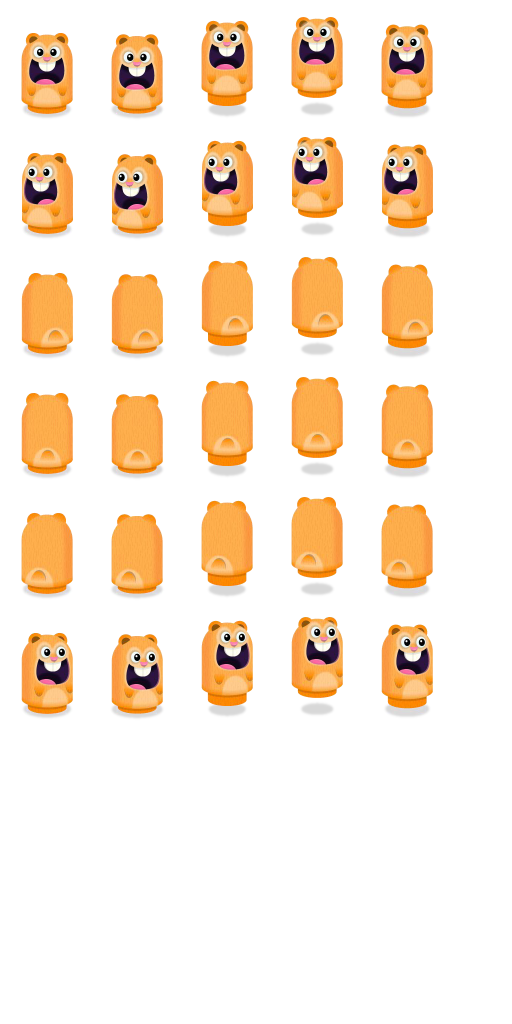
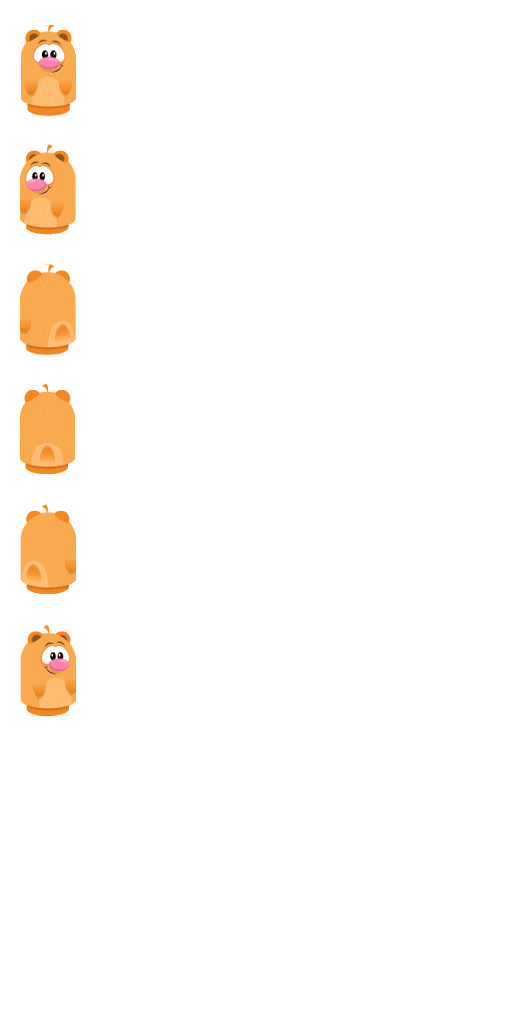
Added coins and new Hamster textures.

diff --git a/client/client1.js b/client/client1.js
@@ -1,4 +1,5 @@
 var BoxCritters = (function() {
+
 	/*
 	 * Event List
 	 * "click"  (x,y) - Dispatached when the user clicks
@@ -95,6 +96,7 @@ var BoxCritters = (function() {
 		}),
 		(Player.prototype.updateDirection = function(t) {
 			this.direction = t;
+			console.log(t);
 		}),
 		(Player.prototype.updateRotation = function(t) {
 			this.character.rotation = t;
@@ -102,9 +104,7 @@ var BoxCritters = (function() {
 		(Player.prototype.updateAnimation = function(t) {
 			void 0 !== t && (this.animation = t),
 				this.hasFrames &&
-					(this.isMoving
-						? this.character.gotoAndPlay("walk" + this.direction)
-						: this.character.gotoAndPlay("stand" + this.direction));
+					(this.character.gotoAndPlay("stand" + this.direction));
 		});
 	var dpr = window.devicePixelRatio;
 
@@ -158,6 +158,7 @@ var BoxCritters = (function() {
 		)
 			for (i = 0; i < e.playerlist.length; i++)
 				this.addPlayer(e.playerlist[i], this.useDirection);
+		this.coins = new Coins(this.stage);
 	}
 
 	function sortDepth(t, o) {
@@ -212,6 +213,21 @@ var BoxCritters = (function() {
 			void 0 !== r && this.socketHandler(r);
 		void 0 !== eventHandler && this.eventHandler(eventHandler);
 	}
+	function Coins(s, q)
+	{
+		var coins_container = new createjs.Container();
+		var coins_bg = new createjs.Bitmap("/media/ui/coins.png");
+		var coins_number = new createjs.Text(q || 100, "20px Luckiest Guy", "#fbd205");
+		coins_bg.x = 5;
+		coins_bg.y = 5;
+		coins_bg.scaleX = 0.35;
+		coins_bg.scaleY = 0.35;
+		coins_number.textAlign = "center";
+		coins_number.textBaseline = "middle";
+		coins_number.setTransform(55 + coins_bg.x, coins_bg.y + 22);
+		coins_container.addChild(coins_bg, coins_number);
+		s.addChild(coins_container);
+	}
 	(Room.prototype.sortDepth = function() {
 		this.game.children.sort(sortDepth);
 	}),
@@ -256,7 +272,7 @@ var BoxCritters = (function() {
 				r = new createjs.Text(t.m, "12px Arial", "#000000");
 			var log = document.getElementById("chatlogArea").value;
 			document.getElementById("chatlogArea").value =
-				t.n + " says: " + t.m + "\n" + log;
+				log + o.nickname.children[0].text + " says: " + t.m + "\n";
 			//e && e.balloon.showMessage(t)
 			(r.textAlign = "center"), (r.lineWidth = 100);
 			var a = r.getBounds(),
@@ -284,7 +300,7 @@ var BoxCritters = (function() {
 			var o = this.playerlist[t.i];
 			o.isMoving = !0;
 			var e = findDirection(t.r);
-			o.updateDirection(e), o.updateAnimation("walk");
+			o.updateDirection(e), o.updateAnimation("stand");
 			var r = calculateDistance(o.x, o.y, t.x, t.y) * o.speed;
 			(o.tween = createjs.Tween.get(o, {
 				override: !0

diff --git a/client/data.js b/client/data.js
@@ -1,40 +1,26 @@
 var hamster_data = {
     images: ["hamster.png"],
-    frames: [[2, 2, 90, 120], [92, 2, 90, 120], [182, 2, 90, 120], [272, 2, 90, 120], [362, 2, 90, 120],
-                 [2, 122, 90, 120], [92, 122, 90, 120], [182, 122, 90, 120], [272, 122, 90, 120], [362, 122, 90, 120],
-                 [2, 242, 90, 120], [92, 242, 90, 120], [182, 242, 90, 120], [272, 242, 90, 120], [362, 242, 90, 120],
-                 [2, 362, 90, 120], [92, 362, 90, 120], [182, 362, 90, 120], [272, 362, 90, 120], [362, 362, 90, 120],
-                 [2, 482, 90, 120], [92, 482, 90, 120], [182, 482, 90, 120], [272, 482, 90, 120], [362, 482, 90, 120],
-                 [2, 602, 90, 120], [92, 602, 90, 120], [182, 602, 90, 120], [272, 602, 90, 120], [362, 602, 90, 120]],
+    frames: [[2, 2, 90, 120], [2, 122, 90, 120], [2, 242, 90, 120], [2, 362, 90, 120], [2, 602, 90, 120], [92, 602, 90, 120], [182, 602, 90, 120]],
     animations: {
-        "stand4": [0],
-        "stand5": [5],
-        "stand6": [5],
-        "stand7": [10],
-        "stand0": [15],
-        "stand1": [20],
-        "stand2": [25],
-        "stand3": [25],
-        "walk4": [0, 4],
-        "walk5": [5, 9],
-        "walk6": [5, 9],
-        "walk7": [10, 14],
-        "walk0": [15, 19],
-        "walk1": [20, 24],
-        "walk2": [25, 29],
-        "walk3": [25, 29]
+        "stand4": [0], // South - Front
+        "stand5": [1],
+        "stand6": [1], // South West - Left - no ok
+        "stand7": [2],
+        "stand0": [3], // North - Back
+        "stand1": [1],
+        //"stand2": [4],
+        "stand3": [4] // South East - ok
     },
-
-    scaleX: .5, //90 big hamster | 5 normal critter
-    scaleY: .5, //90 big hamster | 5 normal critter
+    scaleX: .6, //90 big hamster | 5 normal critter
+    scaleY: .6, //90 big hamster | 5 normal critter
     regX: 45,
     regY: 100,
     framerate: 24,
-    balloonY: 60, //80 big hamster | 60 normal critter
+    balloonY: 80, //80 big hamster | 60 normal critter
     balloonX: 0
 };
 
 var settings = {
     character: hamster_data,
-    roomPath: './media/rooms/'
+    roomPath: 'http://localhost:3000/media/rooms/'
 };

diff --git a/media/critters/hamster.js b/media/critters/hamster.js
@@ -1,32 +1,18 @@
 var hamster_data = {
     images: ["hamster.png"],
-    frames: [[2, 2, 90, 120], [92, 2, 90, 120], [182, 2, 90, 120], [272, 2, 90, 120], [362, 2, 90, 120],
-                 [2, 122, 90, 120], [92, 122, 90, 120], [182, 122, 90, 120], [272, 122, 90, 120], [362, 122, 90, 120],
-                 [2, 242, 90, 120], [92, 242, 90, 120], [182, 242, 90, 120], [272, 242, 90, 120], [362, 242, 90, 120],
-                 [2, 362, 90, 120], [92, 362, 90, 120], [182, 362, 90, 120], [272, 362, 90, 120], [362, 362, 90, 120],
-                 [2, 482, 90, 120], [92, 482, 90, 120], [182, 482, 90, 120], [272, 482, 90, 120], [362, 482, 90, 120],
-                 [2, 602, 90, 120], [92, 602, 90, 120], [182, 602, 90, 120], [272, 602, 90, 120], [362, 602, 90, 120]],
+    frames: [[2, 2, 90, 120], [2, 122, 90, 120], [2, 242, 90, 120], [2, 362, 90, 120], [2, 602, 90, 120], [92, 602, 90, 120], [182, 602, 90, 120]],
     animations: {
         "stand4": [0],
-        "stand5": [5],
-        "stand6": [5],
-        "stand7": [10],
-        "stand0": [15],
-        "stand1": [20],
-        "stand2": [25],
-        "stand3": [25],
-        "walk4": [0, 4],
-        "walk5": [5, 9],
-        "walk6": [5, 9],
-        "walk7": [10, 14],
-        "walk0": [15, 19],
-        "walk1": [20, 24],
-        "walk2": [25, 29],
-        "walk3": [25, 29]
+        "stand5": [1],
+        "stand6": [1],
+        "stand7": [2],
+        "stand0": [3],
+        "stand1": [4],
+        "stand2": [5],
+        "stand3": [5]
     },
-
-    scaleX: .5,
-    scaleY: .5,
+    scaleX: .6,
+    scaleY: .6,
     regX: 45,
     regY: 100,
     framerate: 24,
@@ -36,5 +22,5 @@ var hamster_data = {
 
 var settings = {
     character: hamster_data,
-    roomPath: 'https://boxcritters.herokuapp.com/media/rooms/'
+    roomPath: '/media/rooms/'
 };

diff --git a/index.html b/index.html
@@ -1,6 +1,8 @@
 ---
 layout: default
 ---
+
+<link href="https://fonts.googleapis.com/css?family=Luckiest+Guy&display=swap" rel="stylesheet">
 <div id="login" class="login container mb-4" style="background-color:#EEEEEE;">
     <center><a href="http://boxcritters.github.io"><img src="logo.png" alt="" height="125"></a></center>
     <div class="card m-2">
@@ -29,8 +31,8 @@ layout: default
                 <input id="chat-message" type="text" class="form-control" maxlength="48">
                 <span class="input-group-btn"><button class="btn btn-primary chat-btn">Send</button></span>
             </div>
-            <div class="row justify-content-center chatlog">
-                <textarea id="chatlogArea" style="width: 75%;border:0;background-color: rgba(0,0,0,0);"></textarea>
+            <div class="row justify-content-center chatlog" style="padding: 1em;">
+                <textarea id="chatlogArea" style="width: 75%;border:0;background-color: rgba(0,0,0,0);resize: none;" rows="3" readonly></textarea>
             </div>
         </div>
 </center>

diff --git a/_includes/scripts.html b/_includes/scripts.html
@@ -101,4 +101,8 @@ function play() {
 	game.style.display = 'inline-block';
 	login.style.display = 'none';	
 }
+var textarea = document.getElementById("chatlogArea");
+setInterval(function () {
+	textarea.scrollTop = textarea.scrollHeight;
+}, 1000);
 </script>
